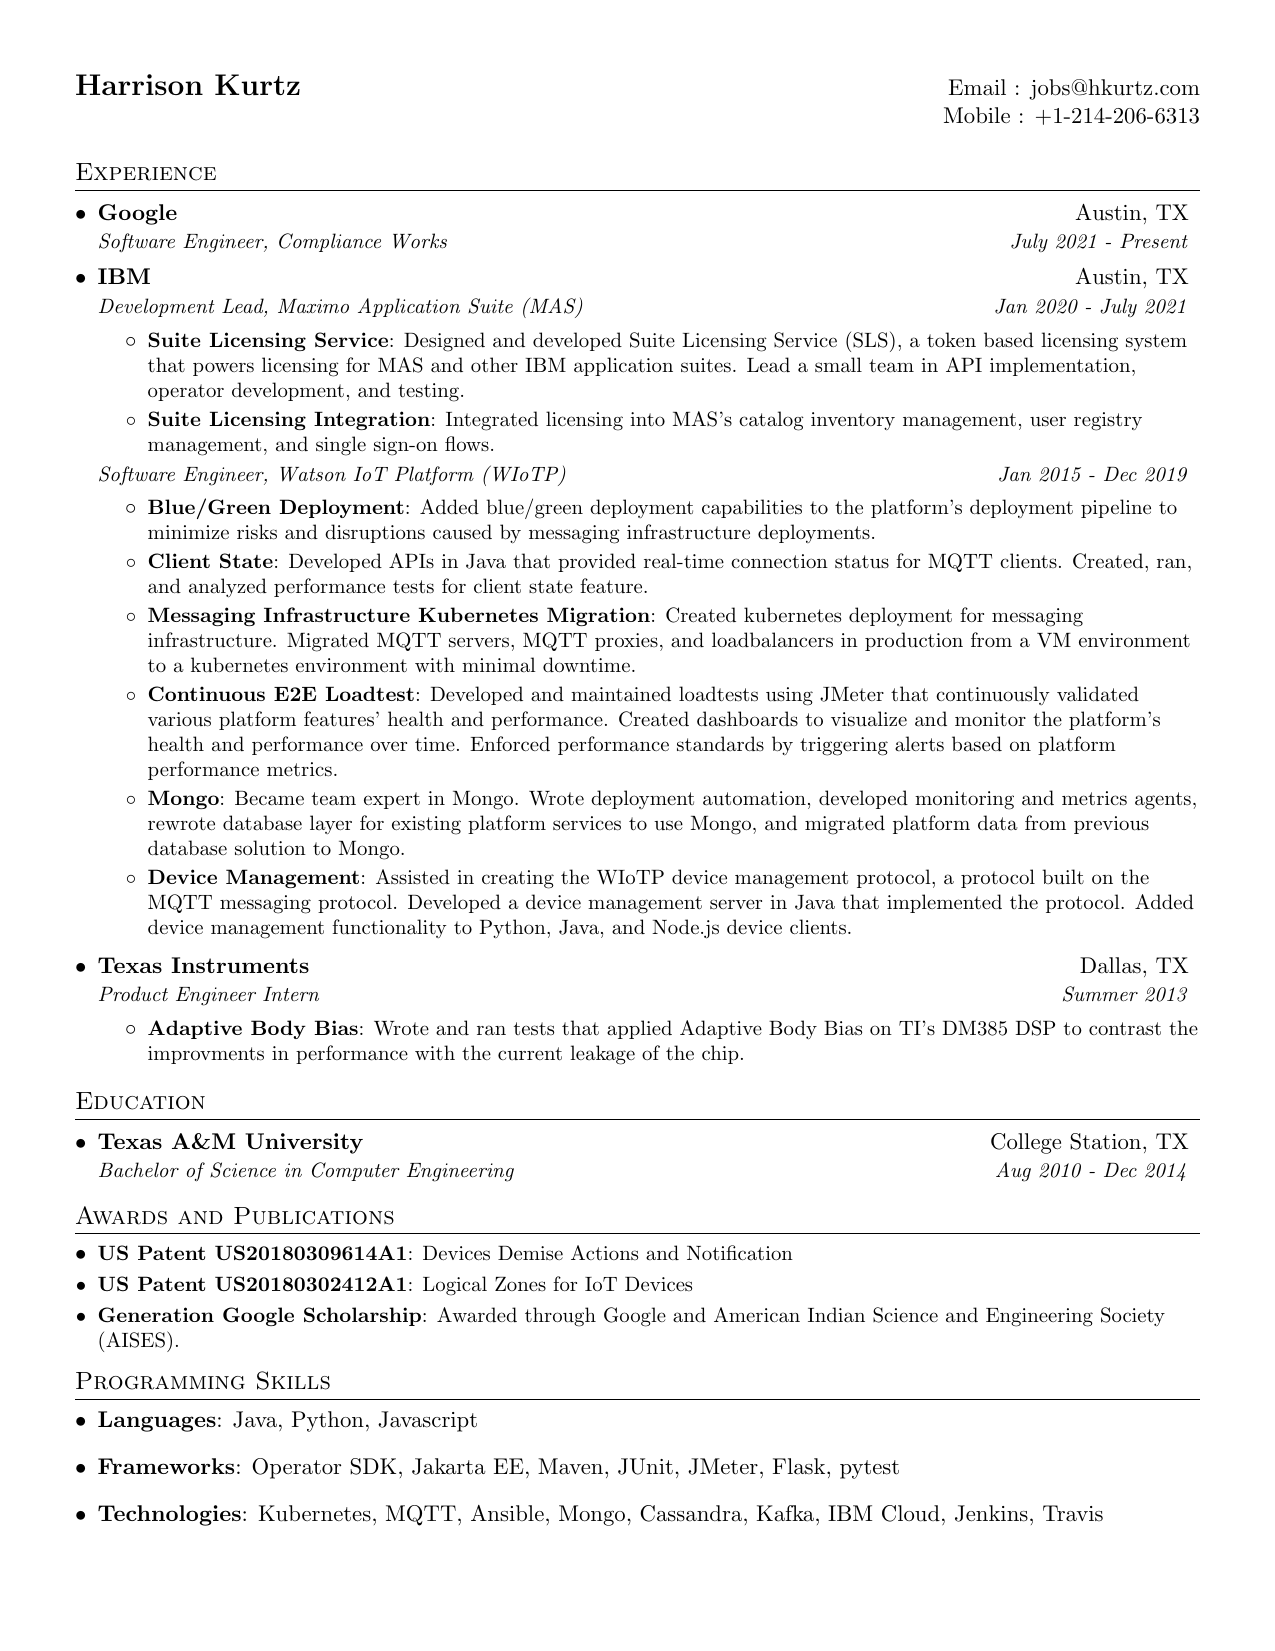
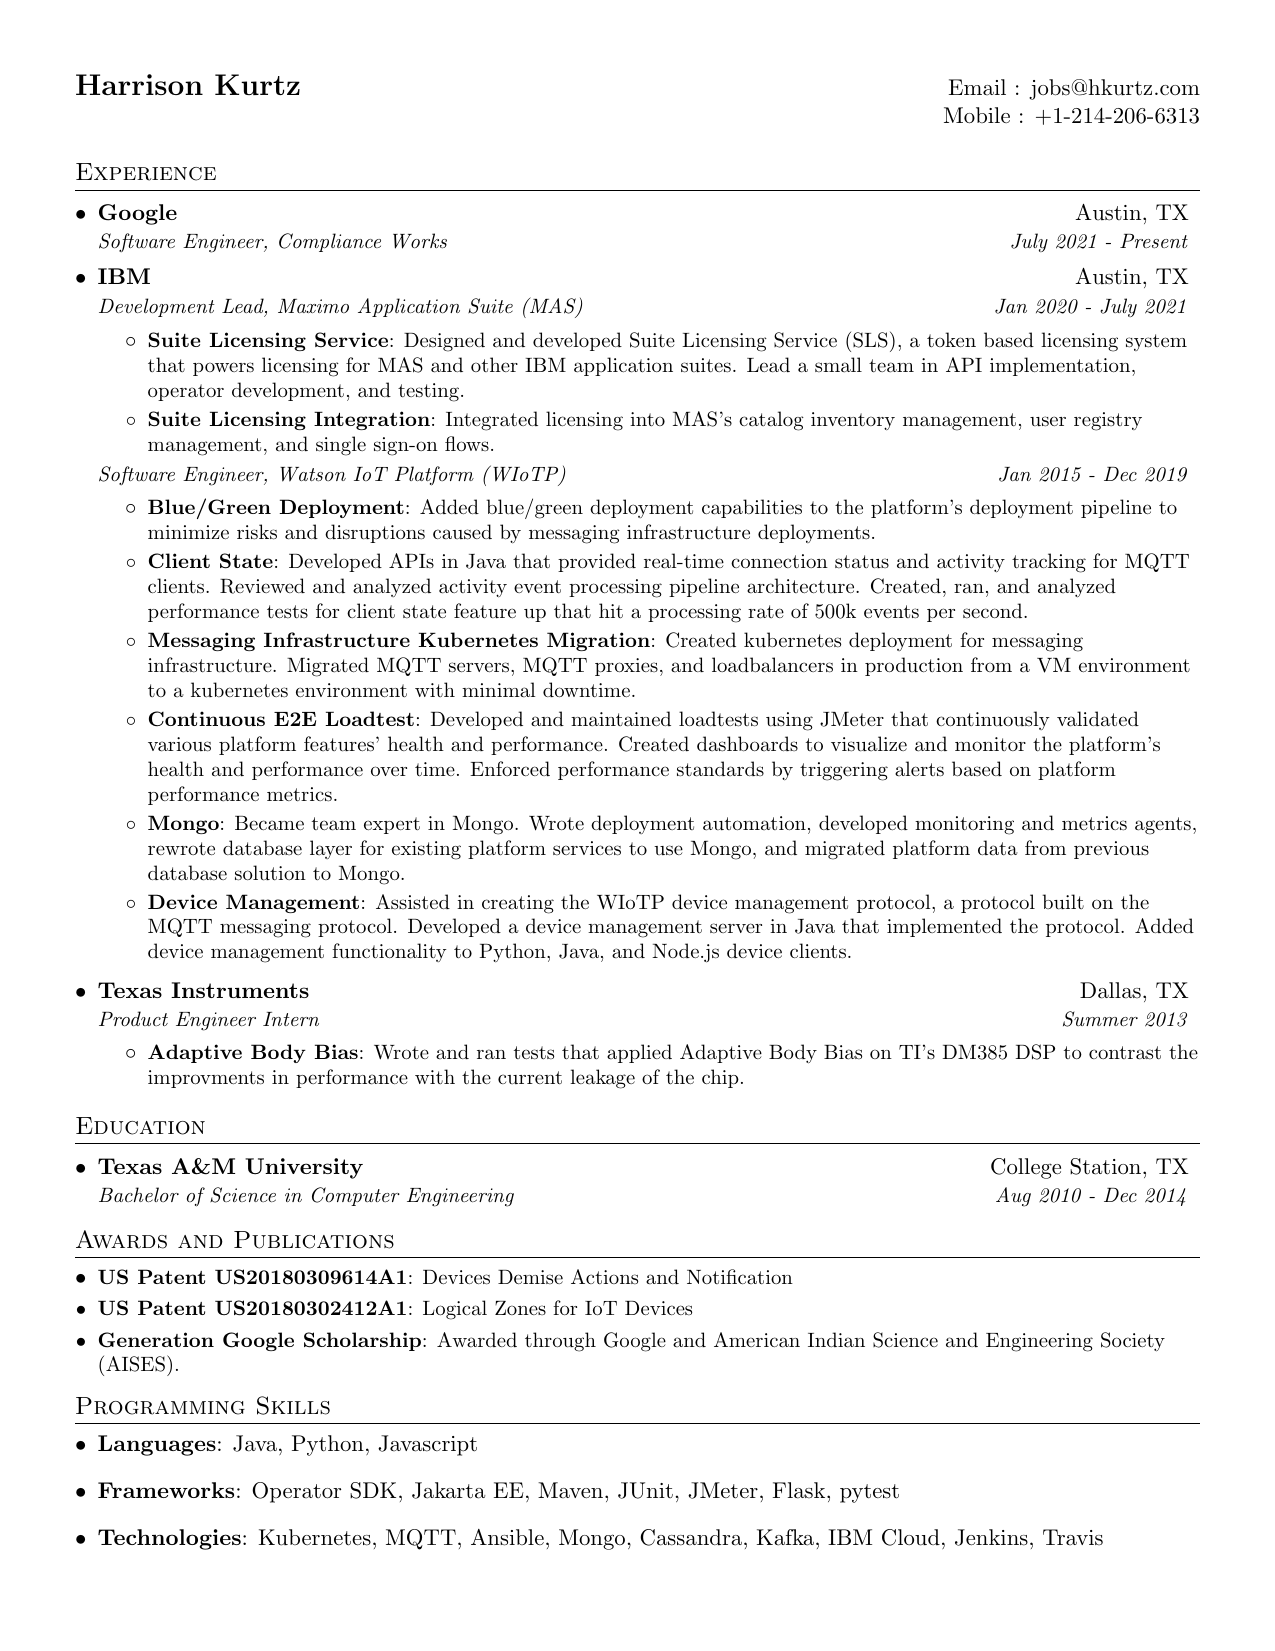
Update client activity section

diff --git a/resume.tex b/resume.tex
@@ -128,7 +128,7 @@
           \resumeItem{Blue/Green Deployment}
             {Added blue/green deployment capabilities to the platform's deployment pipeline to minimize risks and disruptions caused by messaging infrastructure deployments.}
           \resumeItem{Client State}
-            {Developed APIs in Java that provided real-time connection status for MQTT clients. Created, ran, and analyzed performance tests for client state feature.}
+            {Developed APIs in Java that provided real-time connection status and activity tracking for MQTT clients. Reviewed and analyzed activity event processing pipeline architecture. Created, ran, and analyzed performance tests for client state feature up that hit a processing rate of 500k events per second.}
           \resumeItem{Messaging Infrastructure Kubernetes Migration}
             {Created kubernetes deployment for messaging infrastructure. Migrated MQTT servers, MQTT proxies, and loadbalancers in production from a VM environment to a kubernetes environment with minimal downtime.}
           \resumeItem{Continuous E2E Loadtest}
